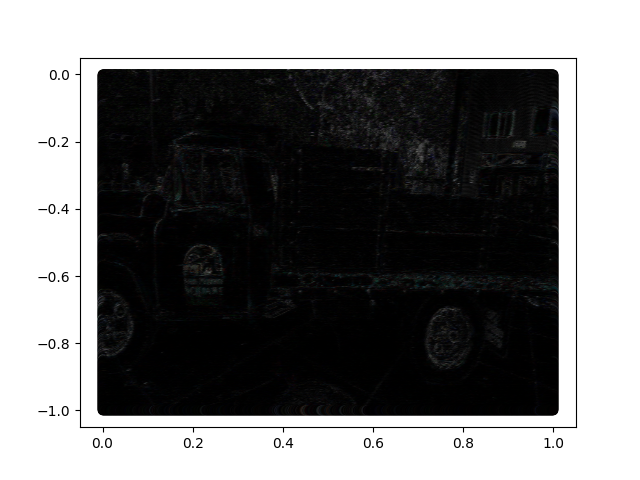
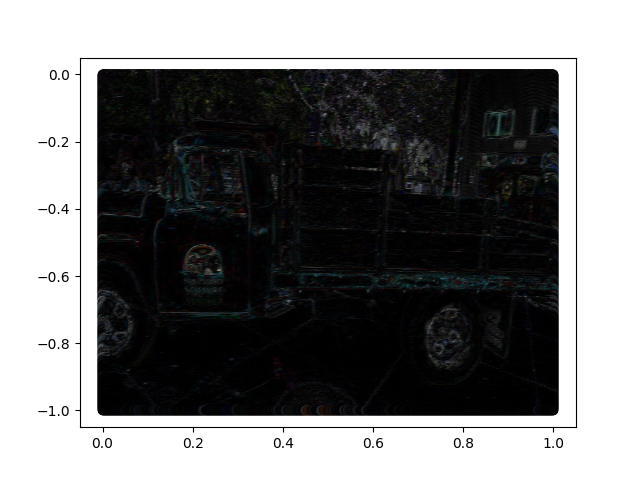
Updates

diff --git a/train.py b/train.py
@@ -16,15 +16,40 @@ from torch.utils.tensorboard import SummaryWriter
 from datetime import datetime
 import os
 
+def log_scalars(writer, model, losses, i):
+    with torch.no_grad():
+        writer.add_scalar("Loss", losses['final_loss'].item(), i)     
+        p = 20*np.log10(1.0) - 10*torch.log10(losses['mse'])
+        writer.add_scalar("Train PSNR", p, i)
+        writer.add_scalar("Num primitives", model.get_num_primitives(), i)     
+        writer.add_scalar("Params vs. PSNR", 
+                            20*np.log10(1.0) - 10*torch.log10(losses['mse']), 
+                            model.param_count())
+    return p.item()
+
+def log_imgs(writer, model, g, i):
+    with torch.no_grad():     
+        img = model(g).reshape(img_shape+[model.n_channels])
+        img = to_img(img)
+        writer.add_image('reconstruction', img, i, dataformats='HWC')
+        heatmap = model.vis_heatmap(g).reshape(img_shape)
+        heatmap = to_img(heatmap)[...,None]
+        writer.add_image('heatmap', heatmap, i, dataformats='HWC')
+       
 if __name__ == '__main__':
     
-    total_iters = 30000
-    fine_tune_iters = 5000    
-    total_primitives = 10000
-    primitives_per_update = 10000
+    total_iters = 10000
+    fine_tune_iters = 1000  
+    starting_primitives = 100
+    total_primitives = 1000
+    primitives_per_update = 50
     iters_per_primitive = int((total_iters-fine_tune_iters) / (total_primitives/primitives_per_update))
     start_freq = 20
     end_freq = 512
+
+
+    prune_every = 100
+    split_every = 250
 
     model_type = PeriodicPrimitives2D
     img_name = "truck.jpg"
@@ -36,7 +61,8 @@ if __name__ == '__main__':
     img_shape = list(training_img.shape)[0:2]
     training_img_copy = (training_img.copy() * 255).astype(np.uint8)
     og_img_shape = training_img.shape
-    model = model_type(device=device, n_channels=3, gaussian_only=False)
+    model = model_type(device=device, n_channels=3, gaussian_only=True)
+    n_extracted_peaks = model.add_primitives(starting_primitives)
 
     g_x = torch.arange(0, og_img_shape[0], dtype=torch.float32, device=device) / (og_img_shape[0]-1)
     g_y = torch.arange(0, og_img_shape[1], dtype=torch.float32, device=device) / (og_img_shape[1]-1)
@@ -44,41 +70,16 @@ if __name__ == '__main__':
                                         dim=-1).reshape(-1, 2).type(torch.float32)
     training_img_colors = torch.tensor(training_img, dtype=torch.float32, device=device).reshape(-1,training_img.shape[-1])
 
-    if(False):
-        m1 = training_img_colors[:,0]>0.5
-        m2 = torch.rand([training_img_colors.shape[0]], device=m1.device)>0.99
-        m1 *= m2
-        training_img_positions = training_img_positions[m1]
-        training_img_colors = training_img_colors[m1]
-    # Table top
-    if(False):
-        aspect=og_img_shape[1]/og_img_shape[0]
-        m1 = (training_img_positions[:,0] > aspect*0.35*training_img_positions[:,1] - 50/og_img_shape[0])
-        m2 = (training_img_positions[:,0] < aspect*0.4*training_img_positions[:,1] + 760/og_img_shape[0])
-        m3 = (training_img_positions[:,0] < aspect*-1.55*training_img_positions[:,1] + 2270/og_img_shape[0])
-        m4 = (training_img_positions[:,1] < 1040/og_img_shape[1])
-        # for top of table
-        m5 = (training_img_positions[:,0] < aspect*0.375*training_img_positions[:,1] + 420/og_img_shape[0])
-        m6 = (training_img_positions[:,0] < aspect*-1.25*training_img_positions[:,1] + 1620/og_img_shape[0])
-        m7 = (training_img_positions[:,0] > aspect*-1.15*training_img_positions[:,1] + 700/og_img_shape[0])
-        #training_img_positions = training_img_positions[m1*m2*m3*m4*m5*m6*m7]
-        #training_img_colors = training_img_colors[m1*m2*m3*m4*m5*m6*m7]
-        training_img_colors[~(m1*m2*m3*m4*m5*m6*m7)] = 0#training_img_colors[m1*m2*m3*m4*m5*m6].mean()
-    #plt.scatter(training_img_positions[:,1].cpu().numpy(), -training_img_positions[:,0].cpu().numpy(), c=training_img_colors.cpu().numpy())
-    #plt.show()
-
     x = training_img_positions
     y = training_img_colors 
     
-    num_params = []
 
-    pre_fitting_imgs = []
-    wave_imgs = []
-    max_tries = 5
-    tries = max_tries
-
-    max_ls_points = 2**17
-    pct_of_data = max_ls_points / x.shape[0]
+    batch_size = 2**17
+    pct_of_data = batch_size / x.shape[0]
+    xmin = x.min(dim=0).values
+    xmax = x.max(dim=0).values
+    g = [torch.linspace(xmin[i], xmax[i], img_shape[i], device=model.device) for i in range(xmin.shape[0])]
+    g = torch.stack(torch.meshgrid(g, indexing='ij'), dim=-1).flatten(0, -2)
     current_t = datetime.now().strftime('%Y-%m-%d_%H-%M-%S')
     run_name = model.__class__.__name__+"_"+img_name.split('.')[0]+current_t
     writer = SummaryWriter(f"./runs/{img_name.split('.')[0]}/{model.__class__.__name__}/{current_t}")
@@ -87,51 +88,15 @@ if __name__ == '__main__':
         model.update_learning_rate(i)
         mask = torch.rand(x.shape[0], device=x.device, dtype=torch.float32) < pct_of_data
 
-        # image logging
-        if i % 200 == 0 and i > 0:
-            with torch.no_grad():
-                res = img_shape
-                xmin = x.min(dim=0).values
-                xmax = x.max(dim=0).values
-                g = [torch.linspace(xmin[i], xmax[i], res[i], device=model.device) for i in range(xmin.shape[0])]
-                g = torch.stack(torch.meshgrid(g, indexing='ij'), dim=-1).flatten(0, -2)
-                img = model(g).reshape(res+[model.n_channels])
-                img = to_img(img)
-                writer.add_image('reconstruction', img, i, dataformats='HWC')
-                heatmap = model.vis_heatmap(g).reshape(res)
-                heatmap = to_img(heatmap)[...,None]
-                writer.add_image('heatmap', heatmap, i, dataformats='HWC')
-                
-
-        # adding primitives
-        if i % iters_per_primitive == 0 and i < total_iters-fine_tune_iters and "Siren" not in model.__class__.__name__:
-            if i > 0: 
-                with torch.no_grad():
-                    writer.add_scalar("Params vs. PSNR", 
-                                    20*np.log10(1.0) - 10*torch.log10(losses['mse']), 
-                                    model.param_count())
-            #residuals = y[mask]
-            #if(i>0):
-            #    residuals -= model(x[mask])
+        # Prune primitives
+        if i % prune_every == 0 and i > 0:
             with torch.no_grad():
                 model.prune_primitives(1./500.)
-            n_gaussians = primitives_per_update
-            n_waves = 0
-            #n_gaussians = 0
-            #n_waves = primitives_per_update
-            #n_gaussians = primitives_per_update-n_waves
-            #n_extracted_peaks = model.add_primitives(
-                                #x[mask],
-                                #residuals,
-                                #n_freqs = 180, 
-                                #n_angles = 180,
-                                #max_freq=(total_iters-i)*start_freq/total_iters+i*end_freq/total_iters, 
-                                #min_influence=1./500.,
-                                #num_waves = n_waves,
-                                #num_gaussians = n_gaussians,
-            #                    num_primitives=primitives_per_update
-            #                    )
+
+        # split primitives
+        if i % split_every == 0 and i < total_iters-fine_tune_iters and split_every != -1:                  
             if(model.get_num_primitives() > 0):
+                log_imgs(writer, model, g, i)
                 losses, model_out = model.loss(x[mask], y[mask])
                 losses['final_loss'].backward()
                 p = model.gaussian_positions.grad.detach().clone()
@@ -140,80 +105,36 @@ if __name__ == '__main__':
                 with torch.no_grad():
                     model.split_prims(p, s, r, primitives_per_update)
                 model.zero_grad()
+                log_imgs(writer, model, g, i+1)
             else:
                 with torch.no_grad():
-                    n_extracted_peaks = model.add_primitives(primitives_per_update)
+                    n_extracted_peaks = model.add_primitives(starting_primitives)
 
-            if(n_waves > 0):
-                writer.add_scalar("Max LS power", 
-                                    model.ls_power.max(), 
-                                    i)
-                writer.add_scalar("Min LS power", 
-                                    model.ls_power.min(), 
-                                    i)
-            
-            if(n_waves > 0):
-                writer.add_image("Lomb-Scargle", model.ls_plot, i, dataformats="HWC")
         
-        #if i % iters_per_wave == 0 and i > 0:
-            #with torch.no_grad():
-                #model.colors.zero_()
-
-        # actual training step
         model.optimizer.zero_grad()
         losses, model_out = model.loss(x[mask], y[mask])
-        #if (losses['final_loss'].isnan()):
-        #    print()
-        #    print(f"Detected loss was NaN.")
-        #    quit()
-            
         losses['final_loss'].backward()
-        #print(f"{self.subgaussian_width} {self.subgaussian_width.grad}")
         model.optimizer.step()
-        #with torch.no_grad():
-        #    model.subgaussian_flat_top_power.clamp_(-1, 3)
             
         # logging
-        if i % 100 == 0:
-            with torch.no_grad():     
-                writer.add_scalar("Loss", losses['final_loss'].item(), i)     
-                p = 20*np.log10(1.0) - 10*torch.log10(losses['mse'])
-                writer.add_scalar("Train PSNR", p, i)        
-                t.set_description(f"[{i+1}/{total_iters}] PSNR: {p.item():0.04f}")
-                #writer.add_scalar("Num gaussians", model.get_num_gaussians(), i)     
-                #writer.add_scalar("Num waves", model.get_num_waves(), i)      
-                writer.add_scalar("Num primitives", model.get_num_primitives(), i)     
-    #print(p.key_averages().table(
-    #    sort_by="self_cuda_time_total", row_limit=-1))
-    
-    
-    #imageio.imwrite("output/supported_waves_training_err.mp4", pre_fitting_imgs)
-    #imageio.imwrite("output/supported_waves_training.mp4", wave_imgs)
-    #model.prune_gaussians(1./500.)
+        if i % 20 == 0:
+            p = log_scalars(writer, model, losses, i)
+            t.set_description(f"[{i+1}/{total_iters}] PSNR: {p:0.04f}")
+            
+        # image logging
+        #if i % 20 == 0 and i > 0:
+            #log_imgs(writer, model, g, i)
+                
 
     with torch.no_grad():
         spot = 0
-        output = torch.empty_like(y)
-        while spot < x.shape[0]:
-            end_spot = min(spot+max_ls_points, x.shape[0])
-            output[spot:end_spot] = model(x[spot:end_spot])
-            spot = end_spot
-
+        output = model(x)
         p = psnr(output,y).item()
         print(f"Final PSNR: {p:0.02f}")
-    
-
         err = torch.clamp(((y-output)**2), 0., 1.)**0.5
         writer.add_scalar("Params vs. PSNR", 
-                                      p, 
-                                      model.param_count())
-    #print(err.min())
-    #print(err.max())
-    plt.scatter(x.detach().cpu().numpy()[:,1],
-                -x.detach().cpu().numpy()[:,0],
-                c=err.detach().cpu().numpy().reshape(-1, model.n_channels))
-    plt.savefig("./output/supportedperiodicprims_output.png")
-
+                        p, 
+                        model.param_count())
     writer.flush()
     writer.close()
     model.save(os.path.join("./savedModels", run_name+".ckpt"))

diff --git a/models/PeriodicPrimitives2D.py b/models/PeriodicPrimitives2D.py
@@ -114,7 +114,7 @@ class PeriodicPrimitives2D(torch.nn.Module):
         self.wave_coefficients = Parameter(torch.empty([0, num_frequencies, num_dimensions], device=device, dtype=torch.float32))
         
         self.optimizer = self.create_optimizer()
-        self.scheduler = get_expon_lr_func(lr_init=0.01,
+        self.scheduler = get_expon_lr_func(lr_init=0.005,
                                                     lr_final=0.00001,
                                                     max_steps=30000)
 
@@ -132,10 +132,10 @@ class PeriodicPrimitives2D(torch.nn.Module):
     
     def update_learning_rate(self, iteration):
         ''' Learning rate scheduling per step '''
+        lr = self.scheduler(iteration)
         for param_group in self.optimizer.param_groups:
-            lr = self.scheduler(iteration)
             param_group['lr'] = lr
-            return lr
+        return lr
             
     def param_count(self):
         total = 0
@@ -151,8 +151,9 @@ class PeriodicPrimitives2D(torch.nn.Module):
                 dtype=torch.float32, device=self.device))
         new_positions = torch.rand([num_gaussians, self.num_dimensions], 
                 dtype=torch.float32, device=self.device)
-        new_scales = 4 - 2*torch.randn([num_gaussians, 2], 
-                dtype=torch.float32,  device=self.device)
+        new_scales = 2 + 1*torch.randn([num_gaussians, 1], 
+                dtype=torch.float32,  device=self.device).repeat(1, 2) + \
+                0.05*torch.randn([num_gaussians, 2], dtype=torch.float32,  device=self.device)
         new_rotations = torch.pi*torch.rand([num_gaussians, 1],
                 dtype=torch.float32,  device=self.device)
         new_wave_coefficients = 0.1*torch.randn([num_gaussians, self.n_frequencies, self.num_dimensions],
@@ -205,21 +206,24 @@ class PeriodicPrimitives2D(torch.nn.Module):
         return optimizable_tensors
     
     def split_prims(self, grads_pos, grads_scales, grads_rotations, num_primitives):
-        summed_grads = grads_pos.abs().sum(dim=1) + grads_scales.abs().sum(dim=1) + grads_rotations.abs().sum(dim=1) 
-
+        summed_grads = grads_pos.abs().norm(dim=1)# + grads_scales.abs().sum(dim=1) + grads_rotations.abs().sum(dim=1) 
+        
         _, indices = torch.topk(summed_grads, num_primitives)
 
-        new_colors = self.gaussian_colors[indices].clone() #* 0.5
-        new_positions = self.gaussian_positions[indices].clone()
-        new_scales = self.gaussian_scales[indices].clone()
+        stds = 1/(3*torch.exp(self.gaussian_scales[indices].clone()))
+        #stds = stds*stds
+        means = torch.zeros((stds.shape[0], 2), device=self.device, dtype=torch.float32)
+        samples = torch.normal(mean=means, std=stds)
         new_rotations = self.gaussian_rotations[indices].clone()
+        rotated_samples = torch.stack([samples[:,0]*torch.cos(-new_rotations[:,0]) + samples[:,1]*torch.sin(-new_rotations[:,0]),
+                               samples[:,0]*-torch.sin(-new_rotations[:,0]) + samples[:,1]*torch.cos(-new_rotations[:,0])], dim=-1)
+        new_positions = self.gaussian_positions[indices].clone() + rotated_samples
+        new_colors = self.gaussian_colors[indices].clone() * 0.5
+        new_scales = self.gaussian_scales[indices].clone() + np.log(1.6)
         new_wave_coefficients = self.wave_coefficients[indices].clone()
 
-        # slightly move it and reduce scale of all gaussians affected
-        new_positions += 0.1*grads_pos[indices]
-        new_scales *= 1.25
-        self.gaussian_scales[indices] *= 1.25
-        #self.gaussian_colors[indices] *= 0.5
+        self.gaussian_scales[indices] += np.log(1.6)
+        self.gaussian_colors[indices] *= 0.5
 
         tensor_dict = {
             "gaussian_colors": new_colors, 
@@ -228,7 +232,6 @@ class PeriodicPrimitives2D(torch.nn.Module):
             "gaussian_rotations": new_rotations,
             "wave_coefficients": new_wave_coefficients
         }
-
         updated_params = self.cat_tensors_to_optimizer(tensor_dict)
 
         self.gaussian_colors = updated_params['gaussian_colors']
@@ -246,12 +249,14 @@ class PeriodicPrimitives2D(torch.nn.Module):
     def vis_heatmap(self, points):
         top_k_coeffs, top_k_indices = self.get_topk_waves()
         outputs = periodic_primitives.heatmap(points, 
-            self.gaussian_positions, self.gaussian_scales,
+            self.gaussian_positions, torch.exp(self.gaussian_scales),
             self.gaussian_rotations, 
             top_k_coeffs, top_k_indices, 
             self.max_frequency, self.gaussian_only)
         heatmap = outputs[0]
-        return heatmap / heatmap.max()
+        #heatmap -= heatmap.min()
+        heatmap = heatmap / heatmap.max()
+        return heatmap
 
     def prune_tensors_from_optimizer(self, mask):
         optimizable_tensors = {}
@@ -274,8 +279,13 @@ class PeriodicPrimitives2D(torch.nn.Module):
 
     def prune_primitives(self, min_contribution:int=1./1000.):
 
+        exp_scales = torch.exp(self.gaussian_scales)
+        r = 3/exp_scales.min(dim=1).values
+        on_image = (self.gaussian_positions[:,0]+r >= 0) * (self.gaussian_positions[:,0]-r <= 1.0) * \
+                    (self.gaussian_positions[:,1]+r >= 0) * (self.gaussian_positions[:,1]-r <= 1.0)
         gaussians_mask = (torch.linalg.norm(self.gaussian_colors,dim=-1) > min_contribution) * \
-                    (torch.linalg.norm(self.wave_coefficients,dim=1).prod(dim=-1) > min_contribution)
+                    (torch.linalg.norm(self.wave_coefficients,dim=1).prod(dim=-1) > min_contribution) * \
+                    on_image
         
         if(len(gaussians_mask.shape)>0):
             to_remove = gaussians_mask.shape[0]-gaussians_mask.sum()

diff --git a/CUDA_modules/PeriodicPrimitivesCUDA/periodic_primitives2DRGB_cuda.cpp b/CUDA_modules/PeriodicPrimitivesCUDA/periodic_primitives2DRGB_cuda.cpp
@@ -89,6 +89,7 @@ std::vector<torch::Tensor> periodic_primitives_heatmap(
     CHECK_INPUT(scales);
     CHECK_INPUT(rotations);
     CHECK_INPUT(wave_coefficients);
+    CHECK_INPUT(wave_coefficient_indices);
 
     return periodic_primitives_heatmap_cuda(
         input, 
